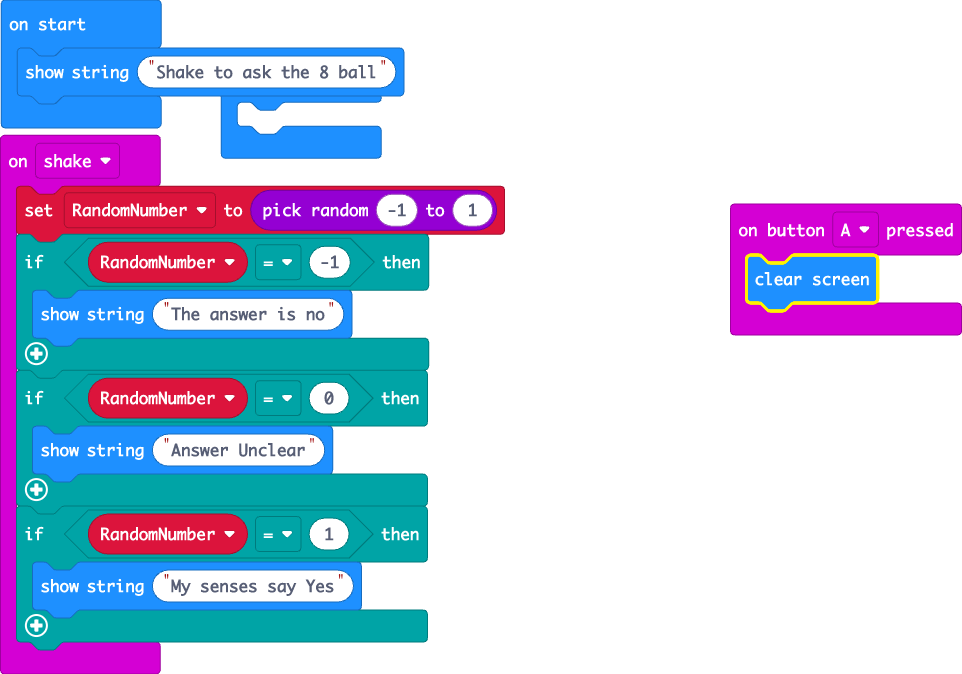
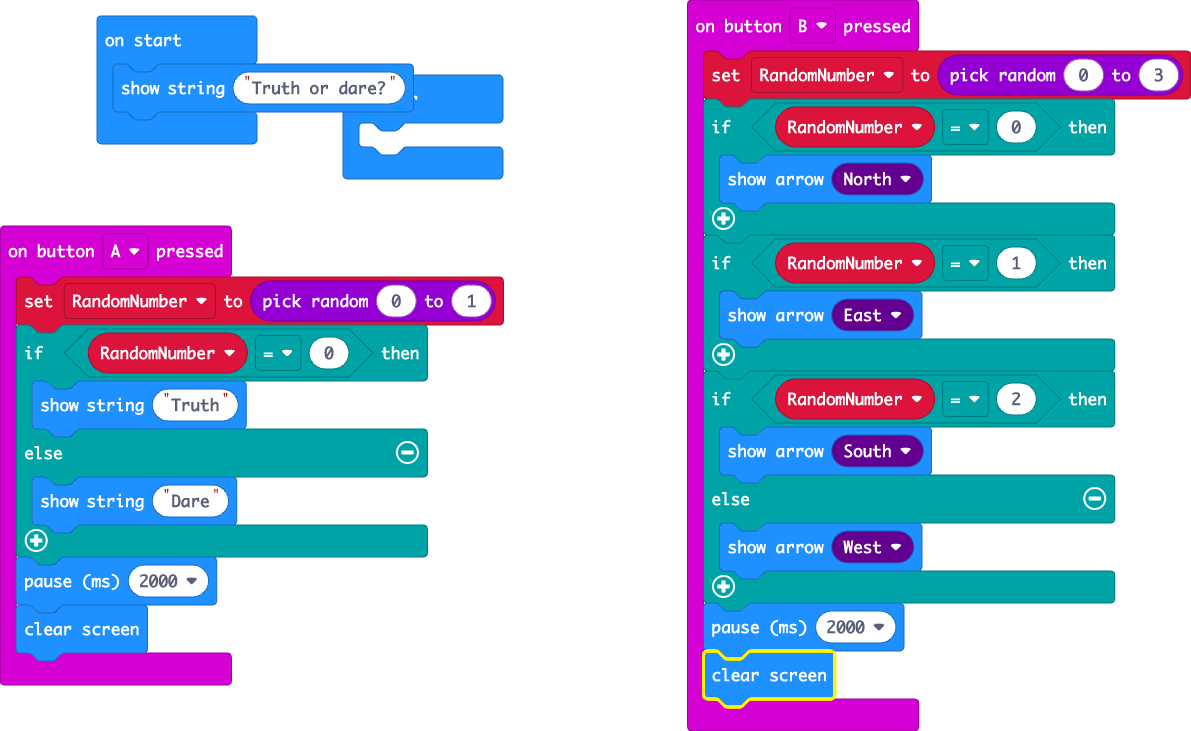
Everything

diff --git a/main.ts b/main.ts
@@ -1,20 +1,31 @@
 input.onButtonPressed(Button.A, function () {
+    RandomNumber = randint(0, 1)
+    if (RandomNumber == 0) {
+        basic.showString("Truth")
+    } else {
+        basic.showString("Dare")
+    }
+    basic.pause(2000)
     basic.clearScreen()
 })
-input.onGesture(Gesture.Shake, function () {
-    RandomNumber = randint(-1, 1)
-    if (RandomNumber == -1) {
-        basic.showString("The answer is no")
-    }
+input.onButtonPressed(Button.B, function () {
+    RandomNumber = randint(0, 3)
     if (RandomNumber == 0) {
-        basic.showString("Answer Unclear")
+        basic.showArrow(ArrowNames.North)
     }
     if (RandomNumber == 1) {
-        basic.showString("My senses say Yes")
+        basic.showArrow(ArrowNames.East)
     }
+    if (RandomNumber == 2) {
+        basic.showArrow(ArrowNames.South)
+    } else {
+        basic.showArrow(ArrowNames.West)
+    }
+    basic.pause(2000)
+    basic.clearScreen()
 })
 let RandomNumber = 0
-basic.showString("Shake to ask the 8 ball")
+basic.showString("Truth or dare?")
 basic.forever(function () {
 	
 })
